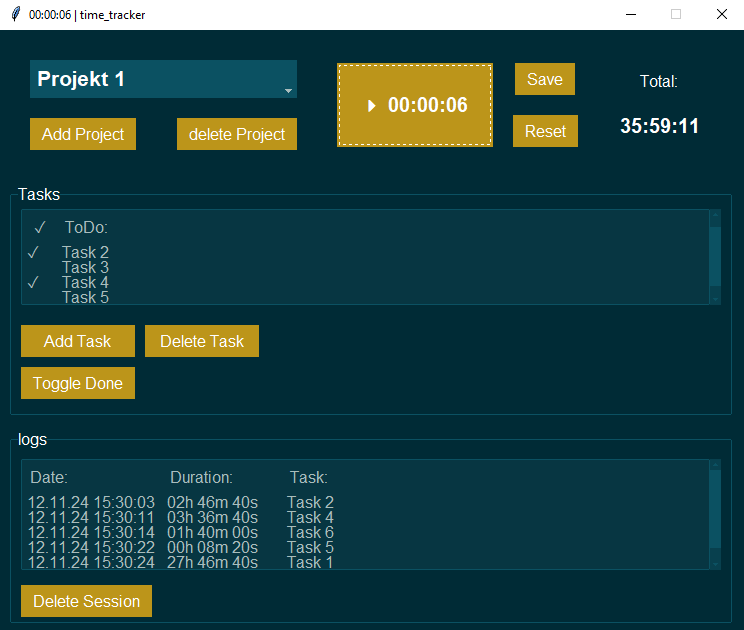
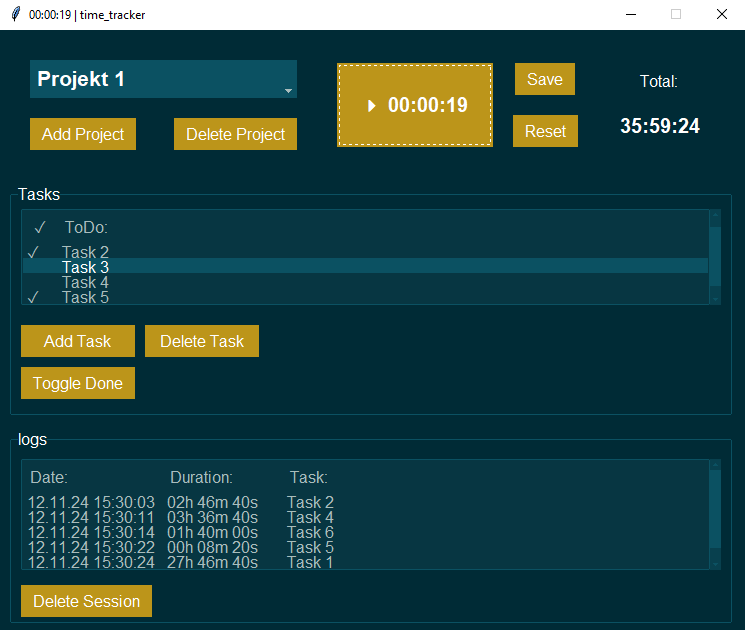
changed wording of buttons

diff --git a/src/gui.py b/src/gui.py
@@ -24,7 +24,7 @@ import project_handler as db
 #     [ ]                                       -> change del task to tag as deleted but don't delete
 
 # global variables
-timer_button_default_text: str = '⏺ start timer '
+timer_button_default_text: str = '⏺ Start Timer '
 timer_display_delay_in_ms: int = 50
 
 
@@ -400,7 +400,7 @@ add_project_button = ttk.Button(project_display_frame,
                                 command = add_project)
 # delete project button
 delete_project_button = ttk.Button(project_display_frame,
-                                   text    = 'delete Project',
+                                   text    = 'Delete Project',
                                    command = del_project)
 
 #endregion
